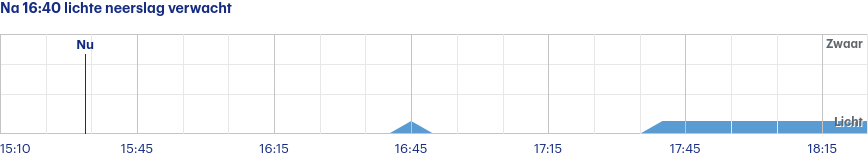
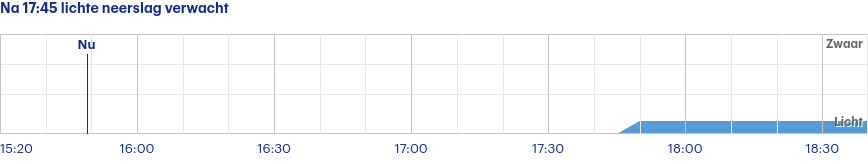
Latest scraping buienradar: Thu Aug 31 13:40:29 UTC 2023

diff --git a/scrapes/buienradar/buienradar-jette-3-uur.md b/scrapes/buienradar/buienradar-jette-3-uur.md
@@ -1,4 +1,4 @@
-Na 16:40 lichte neerslag verwacht
+Na 17:45 lichte neerslag verwacht
 
 ![](buienradar-jette-3-uur.png)
 
